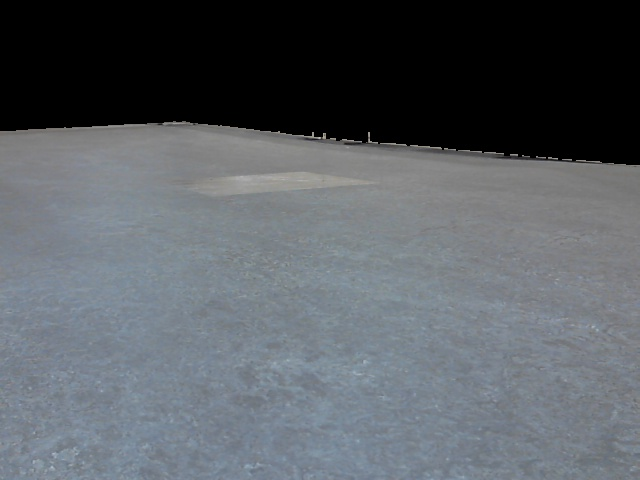
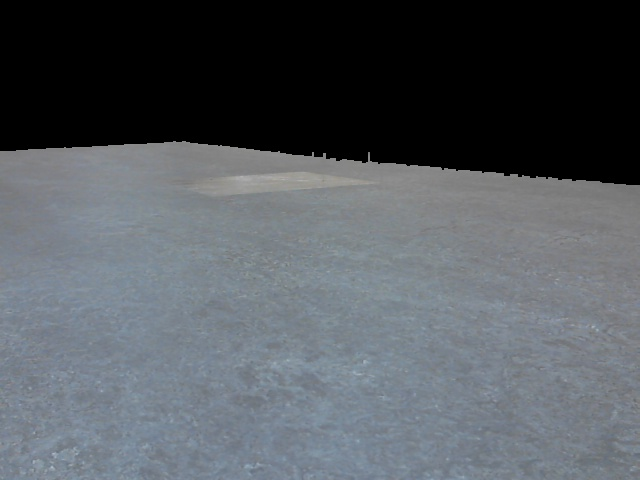
POI recognition
Improved error matrix computation.

Changed region(s): [[0.0, 0.25, 1.0, 0.4062]]

diff --git a/vision.py b/vision.py
@@ -1,6 +1,7 @@
 import copy
 
 import cv2
+import matplotlib.pyplot as plt
 import numpy as np
 
 
@@ -21,18 +22,37 @@ def compute_error_matrix(m, central_value_method="mean"):
     central_value = []
     if central_value_method == "mean":
         for i in range(m.shape[0]):
-            central_value.append(np.mean(m[i]))
+            central_value.append(np.mean(m[i][m[i] > 0] if np.sum(m[i]) > 0 else np.zeros_like(m[i])))
 
     elif central_value_method == "median":
         for i in range(m.shape[0]):
-            central_value.append(np.median(m[i]))
+            central_value.append(np.median(m[i][m[i] > 0] if np.sum(m[i]) > 0 else np.zeros_like(m[i])))
     else:
         raise ValueError("Illegal argument for central_value parameter: {}".format(central_value_method))
 
     # Remove the median value of a row from each element in it
-    m_centered = np.where(m > 145, np.sqrt(np.square(m - np.expand_dims(central_value, axis=1))), np.zeros_like(m))
+    m_centered = np.where(m > 0, np.sqrt(np.square(m - np.expand_dims(central_value, axis=1))), np.zeros_like(m))
 
-    return m_centered
+    return np.abs(m_centered)
+
+
+def row_base_mean_centered(m):
+    print(m.shape)
+    mean_m = np.empty(m.shape)
+    nonzeros = np.empty(m.shape)
+    rmse = np.zeros((m.shape[0], m.shape[1]))
+    for channel in range(3):
+        one_ch = m[:, :, channel]
+        # no_of_nonzeros = np.count_nonzero(one_ch, axis=[1])
+        no_of_nonzeros = (one_ch != 0).sum(1)
+        print(no_of_nonzeros.shape)
+        nonzeros[:, :, channel] = (one_ch != 0)
+        mean_m[:, :, channel] = np.tile((np.sum(one_ch, axis=1) / no_of_nonzeros).T, [m.shape[1], 1]).T
+        # [for pixel in mean_m[:,:,channel] if pixel == NaN] = 0
+        rmse += np.square(mean_m[:, :, channel] - m[:, :, channel]) * nonzeros[:, :, channel]
+
+    return rmse
+    # return np.square(mean_m-m)*nonzeros
 
 
 def vision_test2():
@@ -52,37 +72,39 @@ def vision_test2():
         for i in range(wall_img_filtered.shape[0]):
             if wall_img_filtered[i][j] > 150 and i > last_points[j]:
                 last_points[j] = i
-        point = last_points[j]
+        point = last_points[j] + 20
         wall_img_filtered[:point + 1, j] = np.zeros(point + 1)
         frame[:point + 1, j] = np.zeros((point + 1, 3))
 
-    blurred_frame = cv2.GaussianBlur(frame, (51, 51), 5, 1, 5)
+    blurred_frame = cv2.GaussianBlur(frame, (11, 11), 100)
     cv2.imwrite("img/wall_img_filtered.jpg", wall_img_filtered)
     cv2.imwrite("img/wall_img.jpg", wall_img)
     cv2.imwrite("img/poi_filtered.jpg", frame)
 
-    hsv_filtered = cv2.cvtColor(frame, cv2.COLOR_BGR2HSV)
-    hsv_filtered = cv2.inRange(hsv_filtered, poi_color_lower, poi_color_upper)
-    frame_filtered = cv2.bitwise_and(frame, frame, mask=hsv_filtered)
-    frame_filtered = cv2.medianBlur(frame_filtered, 5)
-    frame_filtered = cv2.morphologyEx(frame_filtered, cv2.MORPH_OPEN, (5, 5))
+    red_channel = frame[:, :, 0]
+    blue_channel = frame[:, :, 1]
+    green_channel = frame[:, :, 2]
 
-    cv2.imwrite("img/poi_filtered_mask.jpg", frame_filtered)
+    rc_centered = cv2.GaussianBlur(compute_error_matrix(red_channel, "mean"), (31, 15), 100)
+    bc_centered = cv2.GaussianBlur(compute_error_matrix(blue_channel, "mean"), (31, 15), 100)
+    gc_centered = cv2.GaussianBlur(compute_error_matrix(green_channel, "mean"), (31, 15), 100)
 
-    # code for error matrix calculation
-    # red_channel = blurred_frame[:, :, 0]
-    # blue_channel = blurred_frame[:, :, 1]
-    # green_channel = blurred_frame[:, :, 2]
-    #
-    # rc_centered = compute_error_matrix(red_channel, "mean")
-    # bc_centered = compute_error_matrix(blue_channel, "mean")
-    # gc_centered = compute_error_matrix(green_channel, "mean")
-    #
-    # error_matrix = rc_centered + bc_centered + gc_centered
-    #
-    # _, img_error = cv2.threshold(error_matrix, np.median(error_matrix), np.max(error_matrix), cv2.THRESH_BINARY)
-    #
-    # cv2.imwrite("img/error.png", img_error)
+    # rc_centered = cv2.GaussianBlur(row_base_mean_centered(red_channel), (31, 15), 100)
+    # bc_centered = cv2.GaussianBlur(row_base_mean_centered(blue_channel), (31, 15), 100)
+    # gc_centered = cv2.GaussianBlur(row_base_mean_centered(green_channel), (31, 15), 100)
+    # qwe = np.log10(np.log10(np.log10((rc_centered*bc_centered*gc_centered)+1)+1)+1)
+    qwe = np.log(rc_centered * bc_centered * gc_centered)
+    print(np.max(qwe))
+    print(np.mean(qwe))
+    plt.plot(np.arange((np.sort(qwe.flatten())).shape[0]), np.sort(qwe.flatten()))
+    plt.savefig('img/foo.png')
+    # qwe /= np.max(qwe)
+    #  print((cv2.applyColorMap(np.expand_dims(rc_centered, axis=2), cv2.COLORMAP_JET)).shape)
+    cv2.imwrite("img/err.jpg", cv2.applyColorMap(qwe.astype(np.uint8), cv2.COLORMAP_JET))
+    # cv2.imwrite("img/err.jpg", cv2.applyColorMap(qwe.astype(np.uint8), cv2.COLORMAP_JET))
+    # cv2.imwrite("img/err.jpg", np.hstack(((cv2.applyColorMap(rc_centered.astype(np.uint8), cv2.COLORMAP_JET)), (cv2.applyColorMap(bc_centered.astype(np.uint8), cv2.COLORMAP_JET)), (cv2.applyColorMap(gc_centered.astype(np.uint8), cv2.COLORMAP_JET)))))
+
+    return
 
 
 def vision_test():
